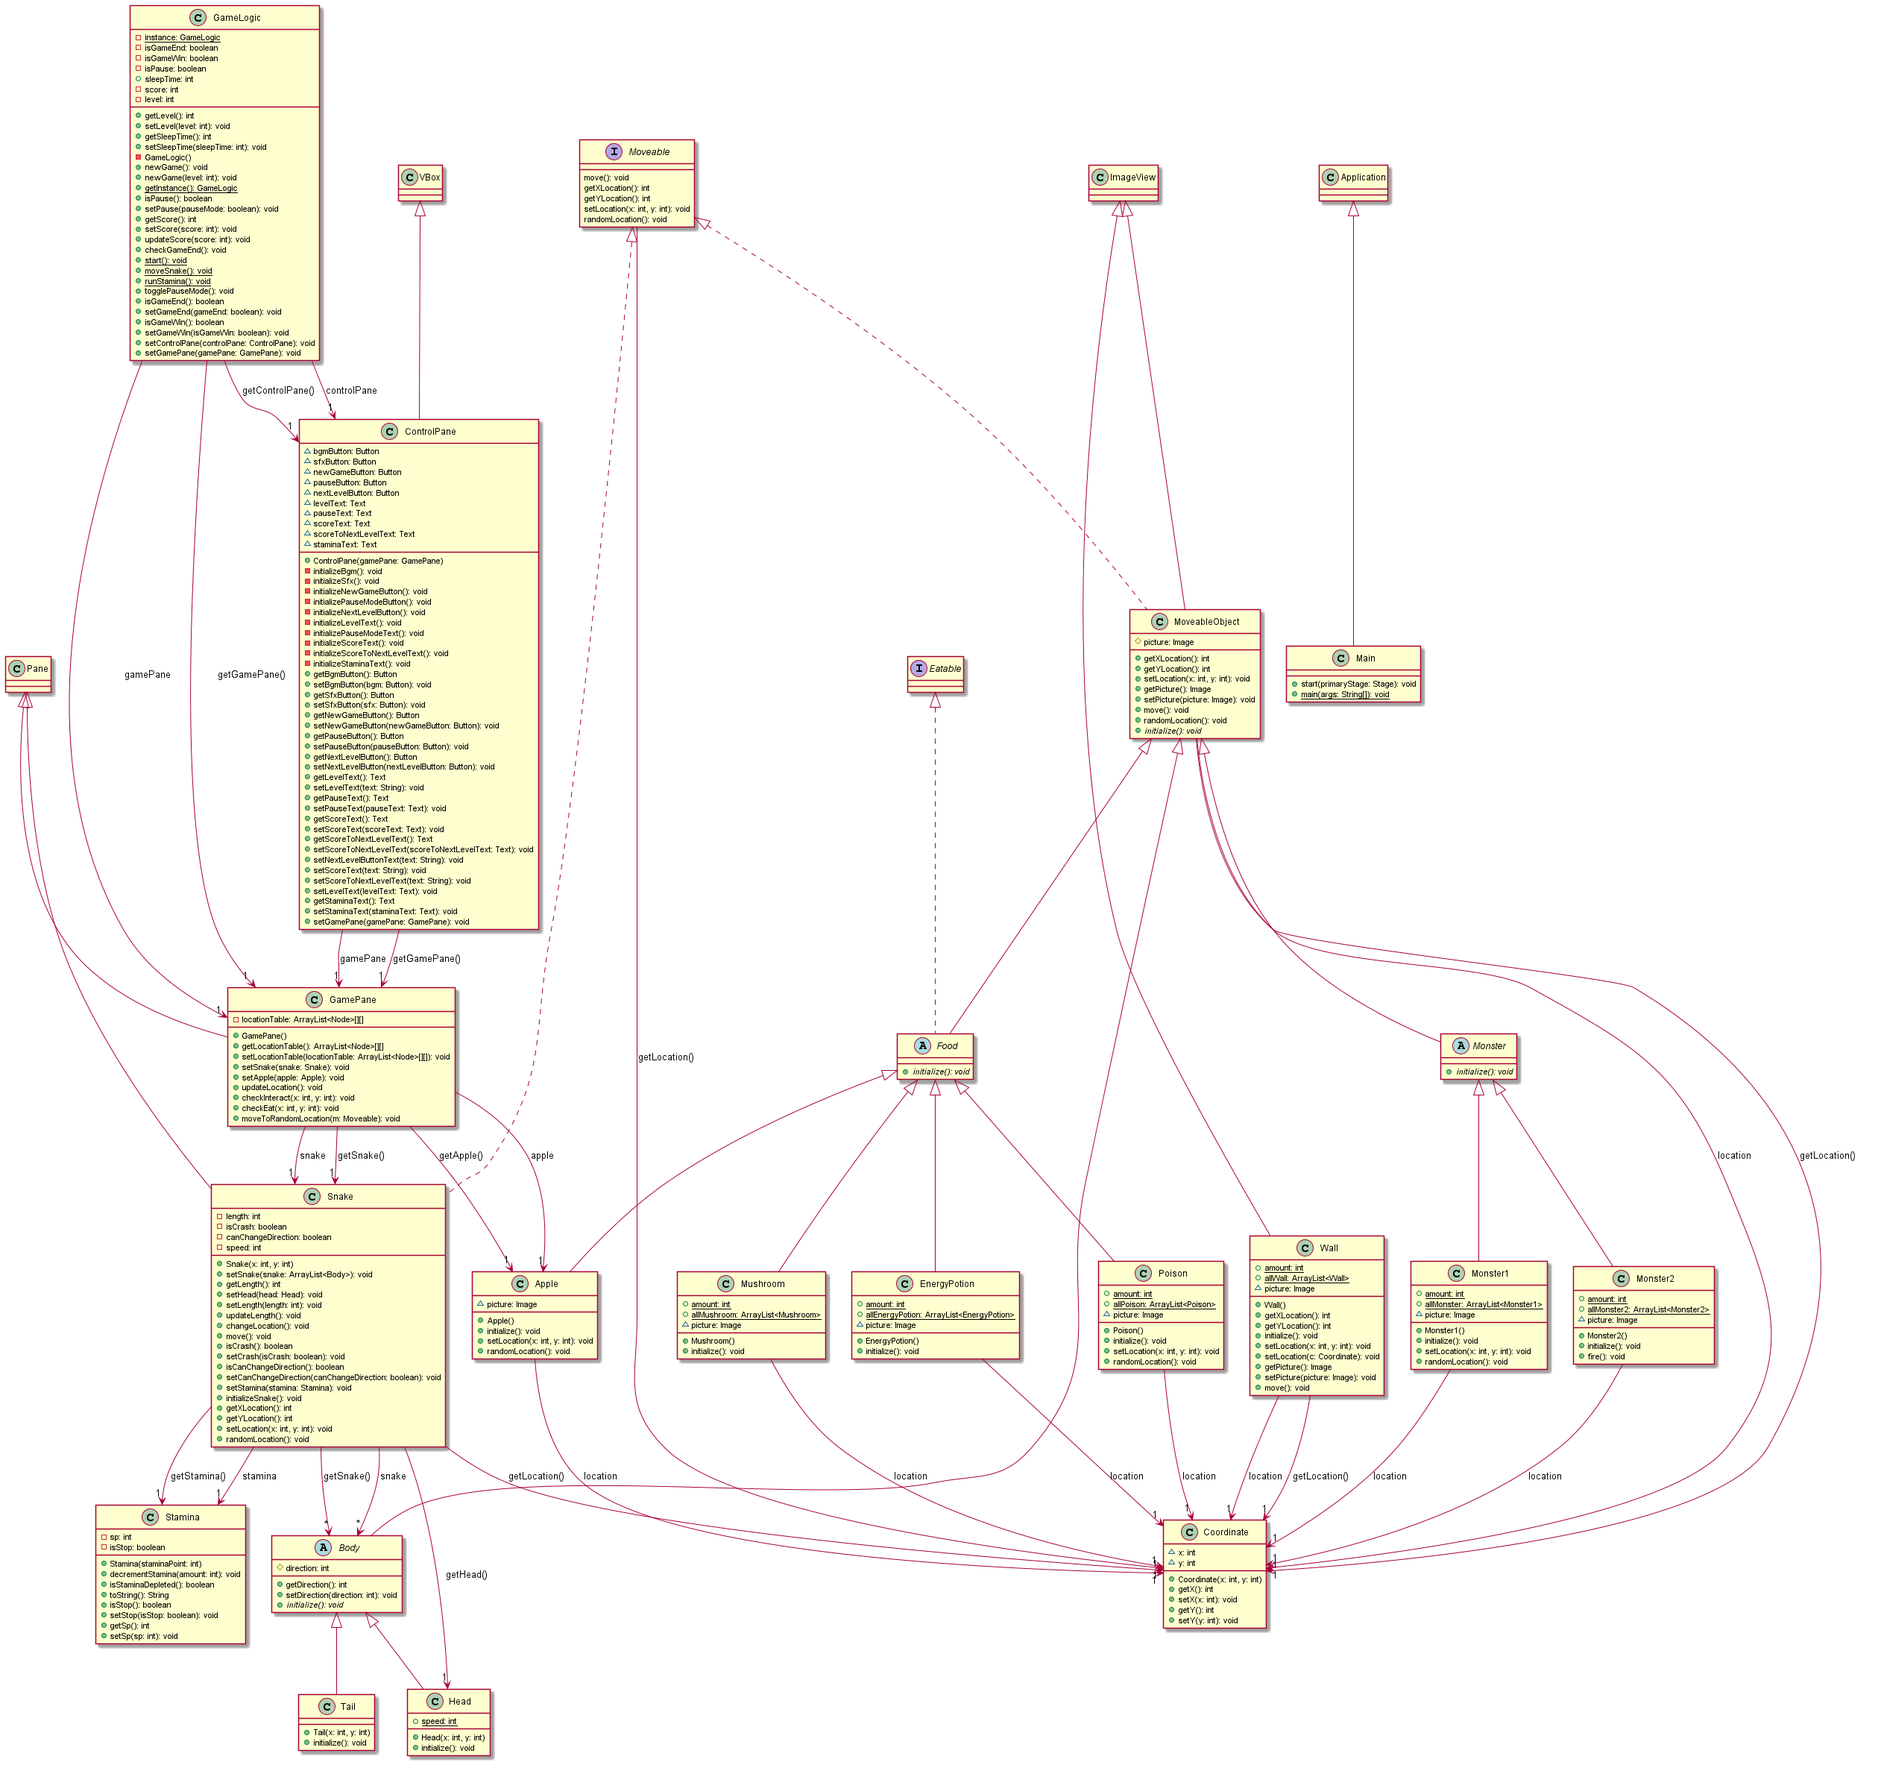
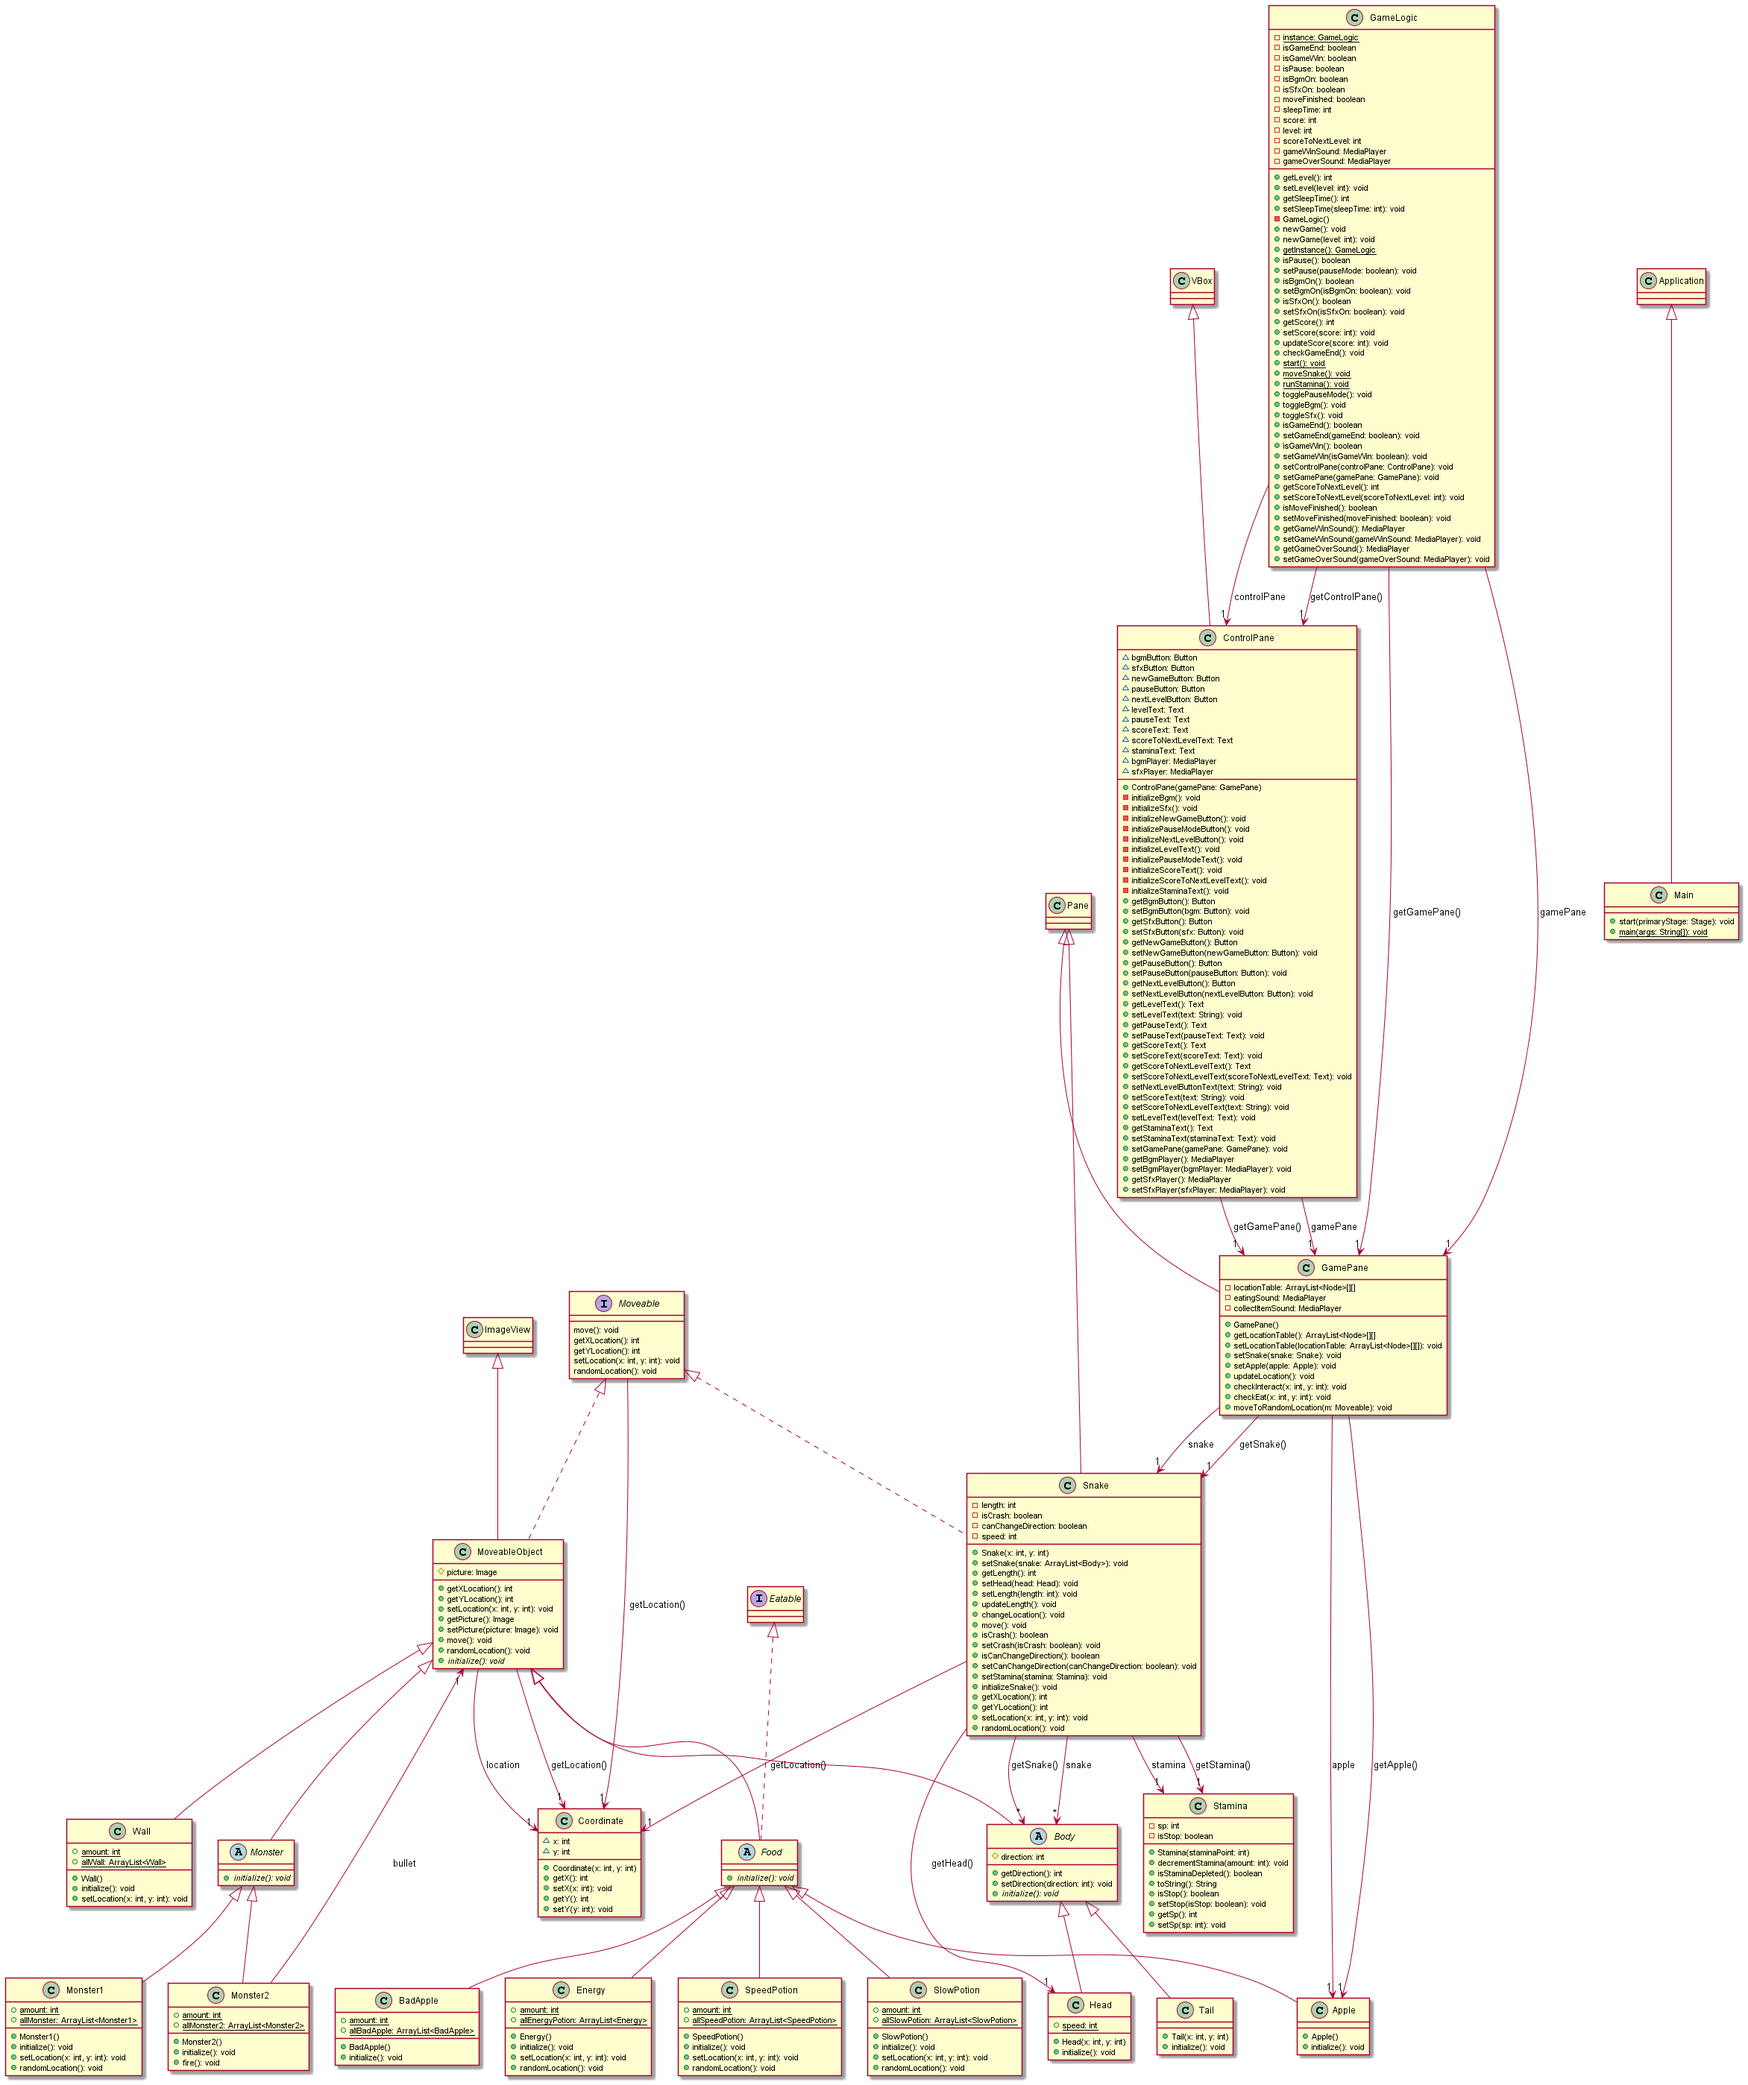
add SfxOff BgmOff Resume

diff --git a/src/logic/GameLogic.java b/src/logic/GameLogic.java
@@ -30,7 +30,7 @@ public class GameLogic {
 	private int sleepTime;
 	private int score;
 	private int level;
-//	private int numberOfMovingThread;
+	private int numberOfMovingThread;
 	private int scoreToNextLevel;
 	private GamePane gamePane;
 	private ControlPane controlPane;
@@ -69,7 +69,6 @@ public class GameLogic {
 		Media gameOverSFx = new Media(new File(gameOverSoundFile).toURI().toString());
 		gameOverSound = new MediaPlayer(gameOverSFx);
 		
-		
 		this.setGameEnd(false);
 		this.setGameWin(false);
 		this.setPause(true);// -----
@@ -91,13 +90,13 @@ public class GameLogic {
 
 	public void newGame(int level) {
 		// run when press start or newGameButton
-		try {
-			GameLogic.getInstance().getControlPane().getBgmPlayer().play();
-			GameLogic.getInstance().toggleBgm();
-		}
-		catch (Exception e){
-			;
-		}
+//		try {
+//			GameLogic.getInstance().getControlPane().getBgmPlayer().play();
+//			GameLogic.getInstance().toggleBgm();
+//		}
+//		catch (Exception e){
+//			;
+//		}
 //		GameLogic.getInstance().getControlPane().getBgmPlayer().play();
 //		GameLogic.getInstance().toggleBgm();
 		
@@ -309,7 +308,7 @@ public class GameLogic {
 		if (isGameEnd) {
 			try {
 				GameLogic.getInstance().getControlPane().getBgmPlayer().stop();
-				GameLogic.getInstance().toggleBgm();
+//				GameLogic.getInstance().toggleBgm();
 			}
 			catch (NullPointerException e){
 				;
@@ -317,12 +316,18 @@ public class GameLogic {
 //			GameLogic.getInstance().getControlPane().getBgmPlayer().stop();
 //			GameLogic.getInstance().toggleBgm();
 			if (isGameWin) {
-				gameWinSound.seek(gameWinSound.getStartTime());
-				gameWinSound.play();
+				if(GameLogic.getInstance().isSfxOn()) {
+					gameWinSound.seek(gameWinSound.getStartTime());
+					gameWinSound.play();
+				}
+//				gameWinSound.seek(gameWinSound.getStartTime());
+//				gameWinSound.play();
 				controlPane.setScoreText("You win!");
 			} else {
-				gameOverSound.seek(gameOverSound.getStartTime());
-				gameOverSound.play();
+				if(GameLogic.getInstance().isSfxOn()) {
+					gameOverSound.seek(gameOverSound.getStartTime());
+					gameOverSound.play();
+				}
 				controlPane.setScoreText("You lose!");
 				GameLogic.getInstance().setLevel(1);
 				GameLogic.getInstance().setScore(0);
@@ -335,7 +340,7 @@ public class GameLogic {
 //------------------------------------------------------------------------------------------------------------------------------
 	public static void start() {
 //		GameLogic.getInstance().getGamePane().getSnake().getStamina().setSp(100); cause java.lang.OutOfMemoryError: Java heap space
-//		int currentNumberOfMovingThread = GameLogic.getInstance().getNumberOfMovingThread(); cause of java.lang.OutOfMemoryError: Java heap space
+//		int currentNumberOfMovingThread = GameLogic.getInstance().getNumberOfMovingThread();// cause of java.lang.OutOfMemoryError: Java heap space
 		Thread moving = new Thread() {
 			public void run() {
 //				GameLogic.getInstance().setNumberOfMovingThread(currentNumberOfMovingThread + 1);
@@ -365,6 +370,33 @@ public class GameLogic {
 			}
 		};
 		moving.start();
+		
+//		Thread usingStamina = new Thread() {
+//			public void run() {
+////				GameLogic.getInstance().setNumberOfMovingThread(currentNumberOfMovingThread + 1);
+//					while ((!GameLogic.getInstance().isGameEnd()) && !GameLogic.getInstance().isPause()) {
+////						&& GameLogic.getInstance().getNumberOfMovingThread() <= 1) {
+//						try {
+////							moveSnake();
+//							runStamina();
+////							System.out.println(GameLogic.getInstance().getGamePane().getSnake().getStamina().getSp());
+////							System.out.println(GameLogic.getInstance().getControlPane().getStaminaText());
+//						} catch (InterruptedException e1) {
+//							e1.printStackTrace();
+//						}
+//
+//					}
+////				GameLogic.getInstance().setNumberOfMovingThread(currentNumberOfMovingThread - 1);
+//					try {
+//						Thread.sleep(100);
+//					} catch (InterruptedException e) {
+//						e.printStackTrace();
+//					}
+//					// check every 0.1 second if gameEnd still true
+//				}
+//			}
+//		};
+//		moving.start();
 	}
 
 	public static void moveSnake() throws InterruptedException {
@@ -421,10 +453,6 @@ public class GameLogic {
 //				}
 //			}
 //		});
-//			timerPane[pl].setTimer(plTimer);			
-//			
-//			plTimer.decrementTimer(2);
-
 		snakeStamina.setStop(true);
 
 		if (snakeStamina.isStaminaDepleted()) {
@@ -520,6 +548,14 @@ public class GameLogic {
 
 	public void setGameOverSound(MediaPlayer gameOverSound) {
 		this.gameOverSound = gameOverSound;
+	}
+
+	public int getNumberOfMovingThread() {
+		return numberOfMovingThread;
+	}
+
+	public void setNumberOfMovingThread(int numberOfMovingThread) {
+		this.numberOfMovingThread = numberOfMovingThread;
 	}
 
 	

diff --git a/src/gui/ControlPane.java b/src/gui/ControlPane.java
@@ -70,7 +70,9 @@ public class ControlPane extends VBox {
 
 	private void initializeBgm() {
 		bgmButton = new Button();
-		bgmButton.setGraphic(new ImageView(new Image("bgm.png", 30, 30, false, false)));
+		ImageView bgmOn = new ImageView(new Image("bgm.png", 30, 30, false, false));
+		ImageView bgmOff = new ImageView(new Image("bgmOff.png", 30, 30, false, false));
+		bgmButton.setGraphic(bgmOn);
 		bgmButton.setPrefWidth(150);
 		String bgmFile = "bgm.mp3"; // For example
 		Media bgm = new Media(new File(bgmFile).toURI().toString());
@@ -79,12 +81,17 @@ public class ControlPane extends VBox {
 		bgmPlayer.play();
 		bgmButton.setOnAction(new EventHandler<ActionEvent>() {
 			public void handle(ActionEvent event) {
-				GameLogic.getInstance().toggleBgm();
-				// turn on sound,turn off sound
-				if (GameLogic.getInstance().isBgmOn()) {
-					bgmPlayer.play();
-				} else {
-					bgmPlayer.pause();
+				if (!GameLogic.getInstance().isGameEnd()) {
+					System.out.println(GameLogic.getInstance().isBgmOn());
+					GameLogic.getInstance().toggleBgm();
+					// turn on sound,turn off sound
+					if (GameLogic.getInstance().isBgmOn()) {
+						bgmPlayer.play();
+						bgmButton.setGraphic(bgmOn);
+					} else {
+						bgmPlayer.pause();
+						bgmButton.setGraphic(bgmOff);
+					}
 				}
 			}
 		});
@@ -92,7 +99,9 @@ public class ControlPane extends VBox {
 
 	private void initializeSfx() {
 		sfxButton = new Button();
-		sfxButton.setGraphic(new ImageView(new Image("sfx.png", 30, 30, false, false)));
+		ImageView sfxOn = new ImageView(new Image("sfx.png", 30, 30, false, false));
+		ImageView sfxOff = new ImageView(new Image("sfxOff.jpg", 30, 30, false, false));
+		sfxButton.setGraphic(sfxOn);
 		sfxButton.setPrefWidth(150);
 		String eatingSoundFile = "eating-sound.wav"; // For example
 		Media eatingSfx = new Media(new File(eatingSoundFile).toURI().toString());
@@ -100,7 +109,14 @@ public class ControlPane extends VBox {
 //		sfxPlayer.play();
 		sfxButton.setOnAction(new EventHandler<ActionEvent>() {
 			public void handle(ActionEvent event) {
-				GameLogic.getInstance().toggleSfx();
+				if (!GameLogic.getInstance().isGameEnd()) {
+					GameLogic.getInstance().toggleSfx();
+					if (GameLogic.getInstance().isSfxOn()) {
+						sfxButton.setGraphic(sfxOn);
+					} else {
+						sfxButton.setGraphic(sfxOff);
+					}
+				}
 			}
 		});
 	}
